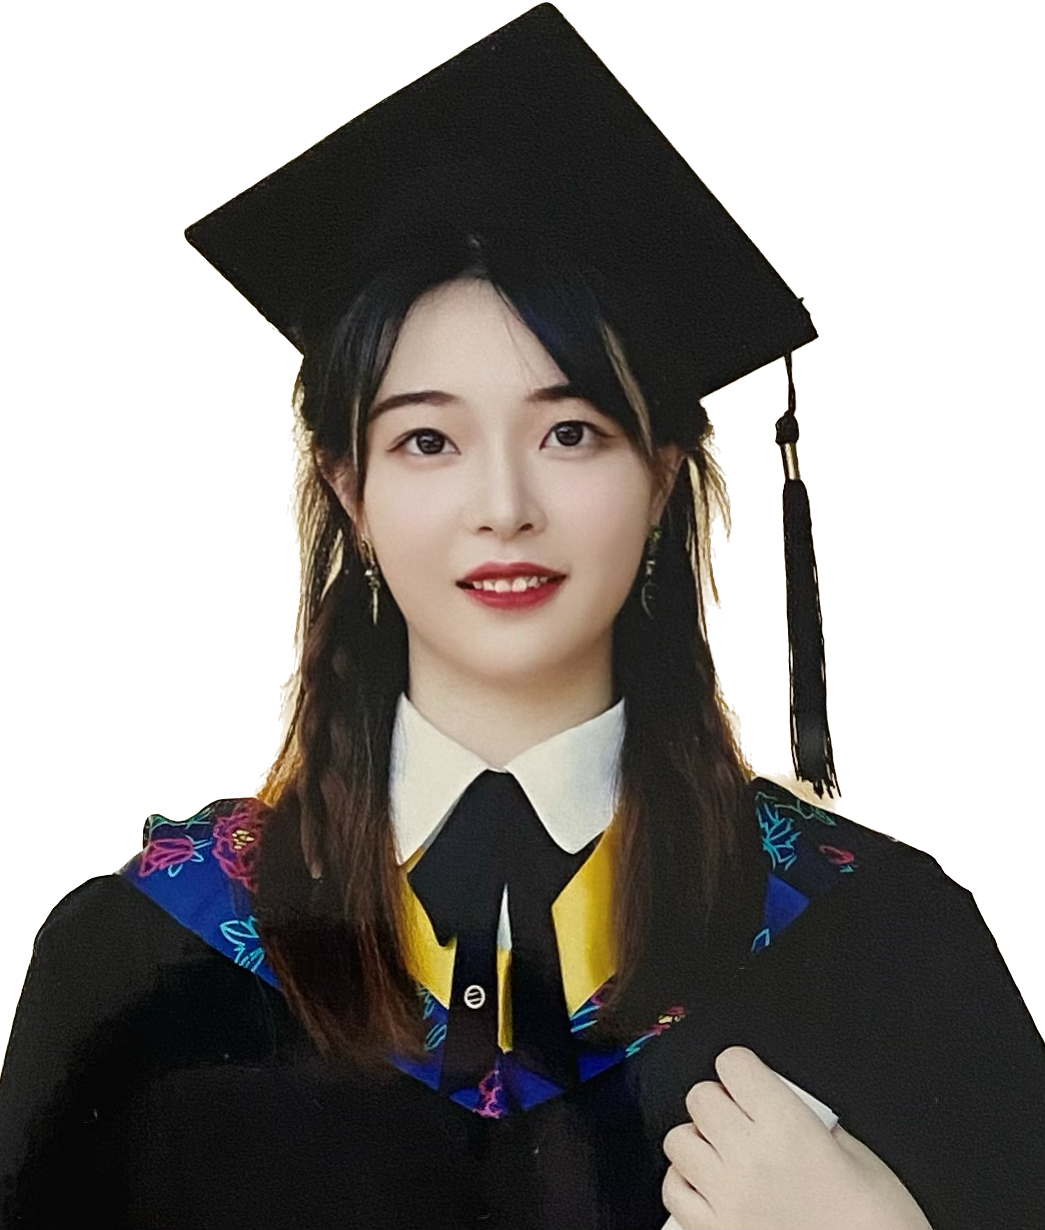
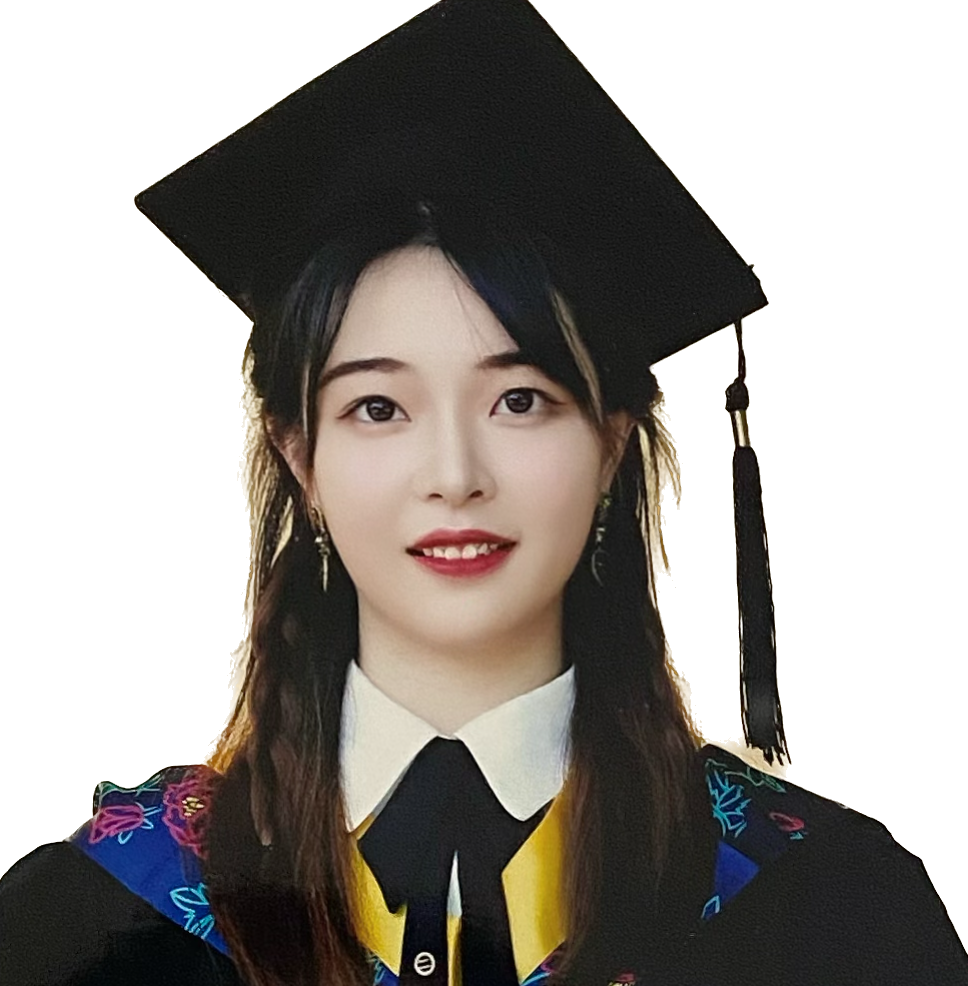
adding the img

diff --git a/style.css b/style.css
@@ -22,94 +22,88 @@ body{
     background: var(--bg-color);
     color:var(--text-color)
 }
+
 header{
-    position: fixed;
-    width: 100%;
-    top: 0;
-    right: 0;
-    display: flex;
-    z-index: 1000;
-    align-items: center;
-    justify-content: space-between;
-    background: transparent;
-    padding: 30px 18%;
-    transition: .3s;
+	position: fixed;
+	width: 100%;
+	top: 0;
+	right: 0;
+	z-index: 1000;
+	display: flex;
+	align-items: center;
+	justify-content: space-between;
+	background: transparent;
+	padding: 30px 18%;
+	transition: .3s;
 }
+
 
 .logo img{
-    max-width: 100%;
-    width: 130px;
-    height: auto;
+	max-width: 100%;
+	width: 130px;
+	height: auto;
 }
-
-nav .nav-list{
-    display: flex;
-    justify-content: space-between;
+.navlist{
+	display: flex;
 }
-
-nav .nav-list li{
-    position: relative;
+.navlist li{
+	position: relative;
 }
-
-nav .nav-list li a{
-    font-size: var(--p-font);
-    color: var(--text-color);
-    font-weight: 500;
-    padding: 10px;
+.navlist a{
+	font-size: var(--p-font);
+	color: var(--text-color);
+	font-weight: 500;
+	padding: 10px 27px;
 }
-
-nav .nav-list li a:hover{
-    color: var(--main-color);
+.navlist a::after{
+	content: '';
+	position: absolute;
+	width: 0;
+	height: 2px;
+	background: var(--main-color);
+	bottom: -3px;
+	left: 0;
+	transition: ease .40s;
 }
-
-nav .nav-list li a::after{
-    content: '';
-    position: absolute;
-    width: 0%;
-    height: 2px;
-    background: var(--main-color);
-    bottom: -3px;
-    left: 0;
-    transition: ease .3s;
-}
-nav .nav-list li a:hover:after{
-    width: 100%;
+.navlist a:hover::after{
+	width: 100%;
 }
 #menu-icon{
-    font-size: 35px;
-    color: var(--text-color);
-    cursor: pointer;
-    z-index: 100001;
-    display: none;
+	font-size: 35px;
+	color: var(--text-color);
+	z-index: 10001;
+	cursor: pointer;
+	display: none;
 }
-
 .top-btn{
-    display: inline-block;
-    border-radius: 30px;
-    border: 2px solid var(--main-color);
-    background: transparent;
-    padding: 9px 30px;
-    color: var(--text-color);
-    letter-spacing: normal;
-    font-weight: 500;
-    transition: ease .50s;
+	display: inline-block;
+	padding: 9px 30px;
+	background: transparent;
+	border: 2px solid var(--main-color);
+	border-radius: 30px;
+	color: var(--text-color);
+	letter-spacing: 1px;
+	font-size: var(--p-font);
+	font-weight: 500;
+	transition: ease .50s;
 }
-
-
 .top-btn:hover{
-    background: var(--main-color);
-    color: var(--bg-color);
+	transform: scale(1.1);
+	background: var(--main-color);
+	border: 2px solid var(--main-color);
+	color: var(--bg-color);
 }
-
 
 section{
-    padding: 100px 18%;
+	padding: 100px 18%;
 }
+
+
 
 .home{
     min-height: 100 vh;
     height: 100%;
-    weight: 100%;
+    width: 100%;
     background:url(img/background.jpg) ;
     background-size: cover;
     background-position: center;
@@ -148,5 +142,49 @@ span{
 	margin-bottom: 20px;
 }
 
+
+.social a{
+	width: 35px;
+	height: 35px;
+	border-radius: 50%;
+	display: inline-flex;
+	align-items: center;
+	justify-content: center;
+	background: rgb(160, 149, 211);
+	font-size: 17px;
+	color: var(--bg-color);
+	margin-right: 15px;
+}
+
+.social a:hover{
+    transform: scale(1.1);
+    background: var(--main-color);
+    transition: .40s;
+}
+
+
+.btn{
+    display: inline-block;
+    align-items: center;
+    justify-content: center;
+    color: var(--bg-color);
+    background-color: var(--main-color);
+    font-size: var(--p-font);
+    padding: 10px 40px;
+    margin: 10px;
+    line-height: 24px;
+    border-radius: 30px;
+    transition: .40s;
+}
+.btn:hover{
+	transform: scale(1.1);
+	background: var(--main-color);
+	transition: .40s;
+}
+.home-img{
+    width: 200px;
+    height: auto;
+
+}
 
 

diff --git a/index.html b/index.html
@@ -14,21 +14,18 @@
 <body>
     <!-- header -->
     <header>
-        <a href="#" class="logo">
-            <img src="img/logo.png" alt="">
-        </a>
-        <div class="bx bx-menu" id="menu-icon"></div>
-        <nav>
-            <ul class="nav-list">
-                <li><a href="#">Home</a></li>
-                <li><a href="#About">About</a></li>
-                <li><a href="#Portfolio">Portfolio</a></li>
-                <li><a href="#Service">Service</a></li>
-                <li><a href="#Contact">Contact Me</a></li>
-            </ul>
-        </nav>
-        <a href="#" class="top-btn">Download Resume</a>
-    </header>
+		<a href="#" class="logo"><img src="img/logo.png"></a>
+		<div class="bx bx-menu" id="menu-icon"></div>
+
+		<ul class="navlist">
+			<li><a href="#home">Home</a></li>
+			<li><a href="#about">About</a></li>
+			<li><a href="#portfolio">Portfolio</a></li>
+			<li><a href="#service">Service</a></li>
+			<li><a href="#contact">Contact</a></li>
+		</ul>
+		<a href="#" class="top-btn">Download CV</a>
+	</header>
 
     <!-- home -->
     <section class="home" id="home">
@@ -42,11 +39,12 @@
                 <a href="#"><i class='bx bx-envelope' ></i></a>
                 <a href="#"><i class='bx bxl-linkedin-square' ></i></a>
                 <a href="#"><i class='bx bxl-twitter' ></i></a>
-                <a href="#" class="about-me"></a>
+                <!-- <a href="#" class="about-me">About me</a> -->
             </div>
+            <a href="#" class="btn">About Me</a>
         </div>
         <div class="home-img">
-            <img src="img/main1.PNG" alt="">
+            <img src="img/pic1.png" alt="">
         </div>
     </section>
 
